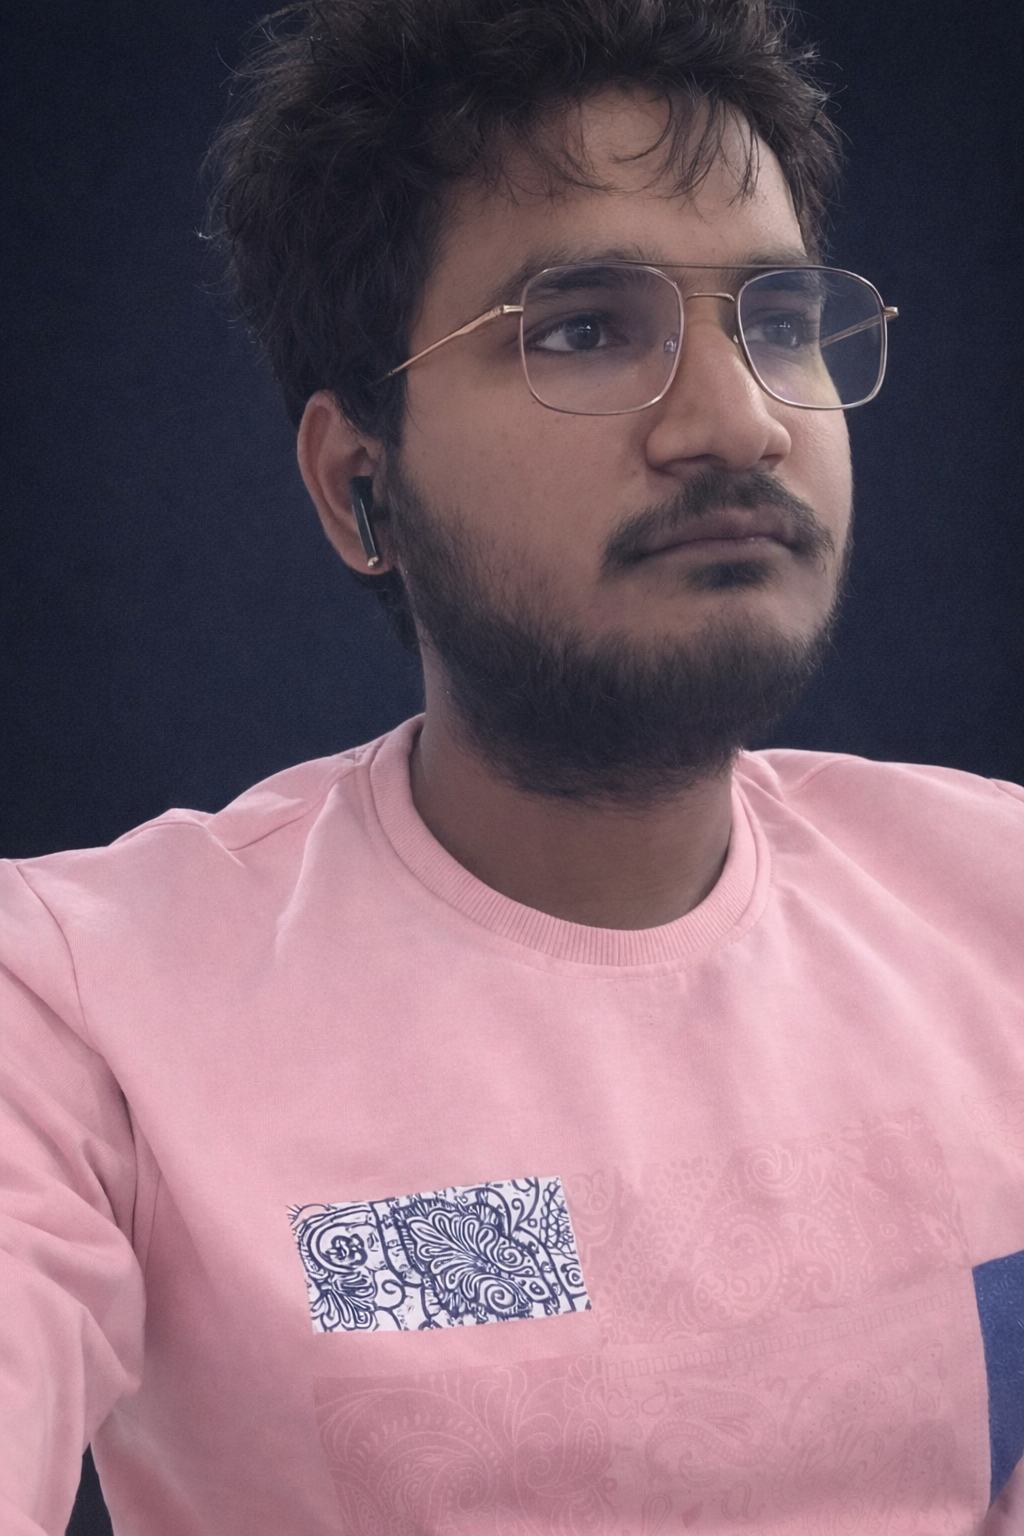
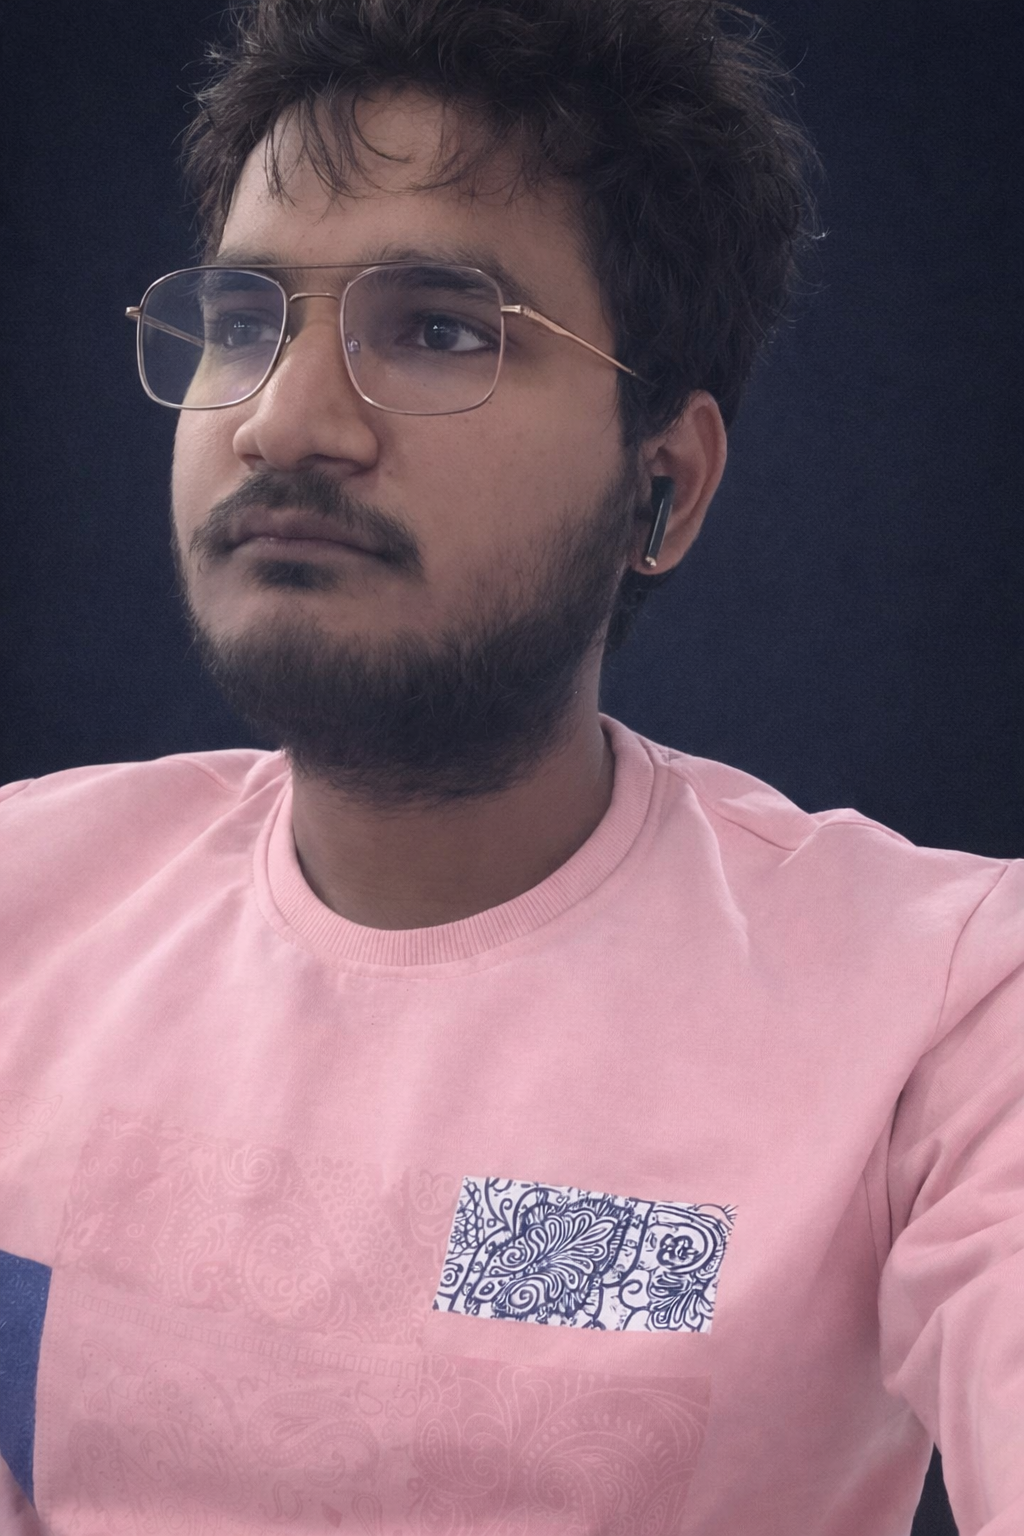
Improvise Project Section

diff --git a/portfolio/src/components/Projects.jsx b/portfolio/src/components/Projects.jsx
@@ -1,76 +1,97 @@
-export default function Projects(){
+import { useState } from "react";
+import "../assets/css/projects.css";
 
-return(
+export default function Projects() {
 
-<section id="projects" className="py-32 bg-slate-950">
+  const [flipped, setFlipped] = useState(null);
 
-<h2 className="text-3xl text-center font-bold text-cyan-400 mb-16">
-Projects
-</h2>
+  const projects = [
+    {
+      title: "DXP - Sobeys",
+      desc: [
+        "Integrated GraphQL APIs for seamless data retrieval.",
+        "Implemented Algolia Search integration.",
+        "Developed unit tests for reliability."
+      ],
+      link: "https://www.sobeys.com/"
+    },
+    {
+      title: "Hitachi Vantara - COE",
+      desc: [
+        "Migrated AEM 6.5 to AEM Cloud Service.",
+        "Integrated SSO authentication.",
+        "Developed AEM components, models, and services."
+      ],
+      link: "https://coe.hitachivantara.com/"
+    },
+    {
+      title: "Redtag",
+      desc: [
+        "Developed AEM backend APIs using Solr & JCR.",
+        "Built GraphQL APIs using Content Fragments.",
+        "Enhanced legacy components and AEM Cloud compatibility."
+      ],
+      link: "https://www.redtag.ca/"
+    }
+  ];
 
-<div className="grid md:grid-cols-3 gap-10 max-w-6xl mx-auto">
+  return (
 
-<div className="bg-white/5 p-6 rounded-xl hover:scale-105 transition">
+    <section id="projects" className="py-32 bg-slate-950">
 
-<h3 className="text-xl font-semibold">
-DXP - Sobeys
-</h3>
+      <h2 className="text-3xl text-center font-bold text-cyan-400 mb-16">
+        Projects
+      </h2>
 
-<p className="text-gray-400 mt-3">
- Integrated multiple third-party APIs using GraphQL to enable seamless data retrieval and improved application performance.
-</p>
-<p className="text-gray-400 mt-3">
- Implemented Algolia Search integration to deliver fast, relevant, and scalable search experiences across the application.
-</p>
-<p className="text-gray-400 mt-3">
- Developed and executed comprehensive Unit Test cases to ensure code quality, reliability, and regression-free deployments.
-</p>
+      <div className="grid md:grid-cols-3 gap-10 max-w-6xl mx-auto">
 
-</div>
+        {projects.map((project, index) => (
 
-<div className="bg-white/5 p-6 rounded-xl hover:scale-105 transition">
+          <div
+            key={index}
+            className="flip-card cursor-pointer"
+            onClick={() =>
+              setFlipped(flipped === index ? null : index)
+            }
+          >
 
-<h3 className="text-xl font-semibold">
-Hitachi Vantara - COE
-</h3>
+            <div className={`flip-inner ${flipped === index ? "flipped" : ""}`}>
 
-<p className="text-gray-400 mt-3">
- Led the successful migration of AEM 6.5 to AEM as a Cloud Service, ensuring seamless transition and system integrity
-</p>
-<p className="text-gray-400 mt-3">
- Integrated Single Sign-On (SSO) authentication with AEM as a Cloud Service, enhancing security and user experience. 
-</p>
-<p className="text-gray-400 mt-3">
- Engineered and maintained AEM custom components, functionalities, including models, servlets, services, and configurations for dynamic content 
-management.
-</p>
+              <div className="flip-front flex items-center justify-center">
 
-</div>
+                <h3 className="text-xl font-semibold text-cyan-300 text-center">
+                  {project.title}
+                </h3>
 
-<div className="bg-white/5 p-6 rounded-xl hover:scale-105 transition">
+              </div>
 
-<h3 className="text-xl font-semibold">
-Redtag
-</h3>
+              <div className="flip-back flex flex-col justify-between">
 
-<p className="text-gray-400 mt-3">
- Developed scalable AEM backend APIs for the RedTag mobile app, delivering travel deals (flights, vacations, hotels, cars) via Solr and JCR.
-</p>
-<p className="text-gray-400 mt-3">
-  Built headless GraphQL APIs using AEM Content Fragments for seamless content delivery.
-</p>
-<p className="text-gray-400 mt-3">
- Deprecated legacy packages (e.g., Apache Cocoon) and implemented compliant alternatives to ensure AEM Cloud Service compatibility
-</p>
-<p className="text-gray-400 mt-3">
-  Developed new AEM components and enhanced legacy components to support evolving UI/UX requirements.
-</p>
-</div>
+                <ul className="list-disc pl-5 text-gray-400 text-sm space-y-2 mt-3">
+                  {project.desc.map((text, i) => (
+                    <li key={i}>{text}</li>
+                  ))}
+                </ul>
 
-</div>
+                <a
+                  href={project.link}
+                  target="_blank"
+                  rel="noopener noreferrer"
+                  className="mt-4 inline-block text-center bg-cyan-500 hover:bg-cyan-600 text-white px-4 py-2 rounded-lg transition"
+                >
+                  Visit Website
+                </a>
 
-</section>
+              </div>
 
-)
+            </div>
 
+          </div>
+
+        ))}
+
+      </div>
+
+    </section>
+  );
 }

diff --git a/portfolio/src/components/Hero.jsx b/portfolio/src/components/Hero.jsx
@@ -8,18 +8,7 @@ return(
 <section className="h-screen flex items-center">
 
 <div className="max-w-6xl mx-auto grid md:grid-cols-2 gap-10 items-center">
-<motion.div
-initial={{opacity:0,x:100}}
-animate={{opacity:1,x:0}}
-transition={{duration:1}}
->
 
-<img
-src={profile}
-className="w-80 rounded-full shadow-2xl mx-auto"
-/>
-
-</motion.div>
 
 <motion.div
 initial={{opacity:0,x:-100}}
@@ -44,15 +33,20 @@ I build scalable digital experiences using Adobe Experience Manager, Java, OSGi,
 
 </p>
 
-<button className="mt-6 px-6 py-3 bg-cyan-500 rounded-lg hover:scale-105 transition">
-
-Hire Me
-
-</button>
-
 </motion.div>
 
+<motion.div
+initial={{opacity:0,x:100}}
+animate={{opacity:1,x:0}}
+transition={{duration:1}}
+>
 
+<img
+src={profile}
+className="w-80 rounded-full shadow-2xl mx-auto"
+/>
+
+</motion.div>
 
 </div>
 

diff --git a/portfolio/src/assets/css/projects.css b/portfolio/src/assets/css/projects.css
@@ -1,0 +1,34 @@
+.flip-card {
+  perspective: 1000px;
+}
+
+.flip-inner {
+  position: relative;
+  width: 100%;
+  height: 250px;
+  transform-style: preserve-3d;
+  transition: transform 0.6s;
+}
+
+.flip-inner.flipped {
+  transform: rotateY(180deg);
+}
+
+.flip-front,
+.flip-back {
+  position: absolute;
+  width: 100%;
+  height: 100%;
+  backface-visibility: hidden;
+  border-radius: 12px;
+  padding: 24px;
+}
+
+.flip-front {
+  background: rgba(255,255,255,0.05);
+}
+
+.flip-back {
+  background: rgba(255,255,255,0.05);
+  transform: rotateY(180deg);
+}
